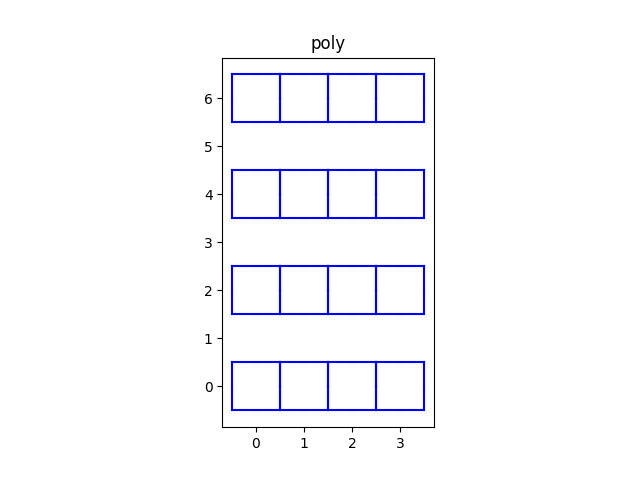
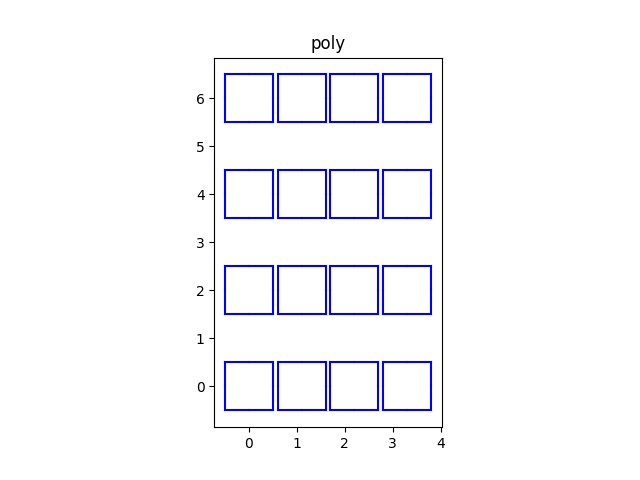
V1.2 add space warnings

diff --git a/mesh/_mesh.py b/mesh/_mesh.py
@@ -3,7 +3,7 @@ import dmsh as dm
 from pyhull.delaunay import DelaunayTri
 import numpy as np
 from .poly import Poly
-
+import warnings
 class Mesh(object):
     """Mesh Generator          
     Inputs: initialize by object = Mesh("mesh name", string of mesh methods, list of parameters)
@@ -40,10 +40,11 @@ class Mesh(object):
         self.dlist = argv  ## dimension list
         self.tri = None
 
+        # 初始化所有字段為空列表
         for each in Mesh._fields:
             setattr(self, each, [])
 
-
+        # 初始化天線尺寸並設置網格
         exec('self._' + geometry + '(self.dlist)')
 
 
@@ -51,6 +52,8 @@ class Mesh(object):
         """Trianularize with pyhull Delaunay algorithm."""
         width = float(dlist[0])
         length = float(dlist[1])
+        self.width = width  # 保存寬度
+        self.length = length  # 保存長度
         half_w = width/2
         half_l = length/2
         nx = dlist[2]
@@ -84,23 +87,25 @@ class Mesh(object):
         num_x_copies = int(dlist[4])
         x_spacing = float(dlist[5])
         num_y_copies = int(dlist[6])
-        y_spacing = float(dlist[7])
+        y_spacing = float (dlist[7])
+
+        # 檢查間隔是否足夠
+        if x_spacing <= self.width or y_spacing <= self.length:
+            warnings.warn(f"x_spacing ({x_spacing}) 必須至少大於天線的寬度 ({self.width})，"
+                          f"y_spacing ({y_spacing}) 必須至少大於天線的長度 ({self.length})。"
+                          " 複製操作將被跳過。")
+            return
 
         replicated_triangles = []
-        replicated_points = list(self.points)  # 首先保留初始的點
+        replicated_points = list(self.points)
         num_original_points = len(self.points)
-
-        # 初始天線的點和三角形數量
-        # print(f"初始點數量: {num_original_points}")
-        # print(f"初始三角形數量: {len(self.triangles)}")
 
         for i in range(num_x_copies):
             for j in range(num_y_copies):
                 if i == 0 and j == 0:
-                    # 跳過初始的第一組
                     continue
 
-                # 計算此次複製的偏移量
+                # 計算複製的偏移量
                 x_offset = i * x_spacing
                 y_offset = j * y_spacing
 
@@ -113,23 +118,10 @@ class Mesh(object):
                     replicated_triangle = [v + num_points for v in triangle]
                     replicated_triangles.append(replicated_triangle)
 
-                # 當前複製的位移和結果
-                # print(f"已在偏移 ({x_offset}, {y_offset}) 複製一組")
-                # print(f"複製後的點數量: {len(replicated_points)}")
-                # print(f"複製後的三角形數量: {len(replicated_triangles)}")
-
         # 更新 Mesh 物件的屬性
         self.triangles = replicated_triangles + self.triangles
         self.points = replicated_points
         self.triangles_total = len(self.triangles)
-
-        # 打印總結果
-        # print(f"總共複製組數: {num_x_copies * num_y_copies}")
-        # print(f"總點數量: {len(self.points)}")
-        # print(f"總三角形數量: {len(self.triangles)}")
-
-
-
 
 
     # def _plate2(self, dlist):

diff --git a/demo_dipole.py b/demo_dipole.py
@@ -72,7 +72,7 @@ ny = 2
 
 #定義複製項
 num_x_copies = 4
-x_spacing = 1
+x_spacing = 1.1
 num_y_copies = 4
 y_spacing =2
 
